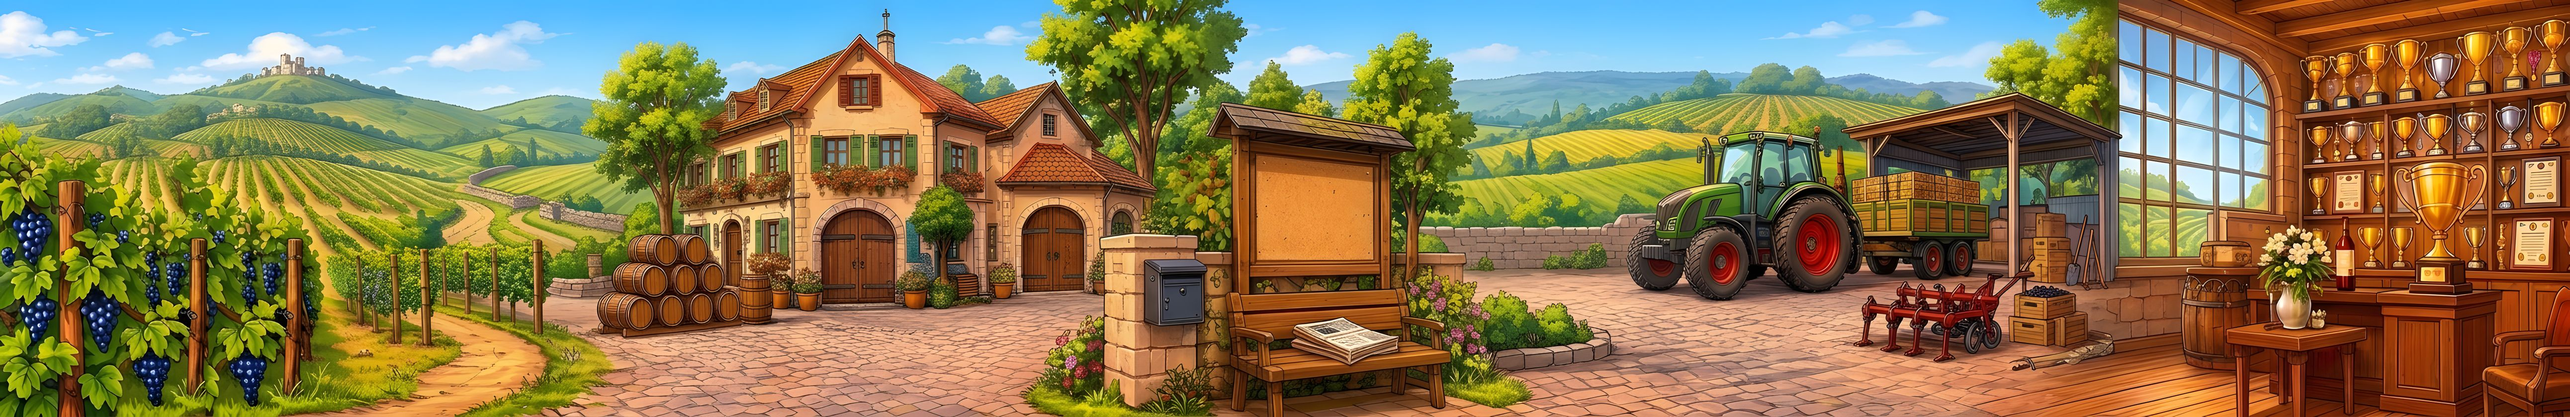
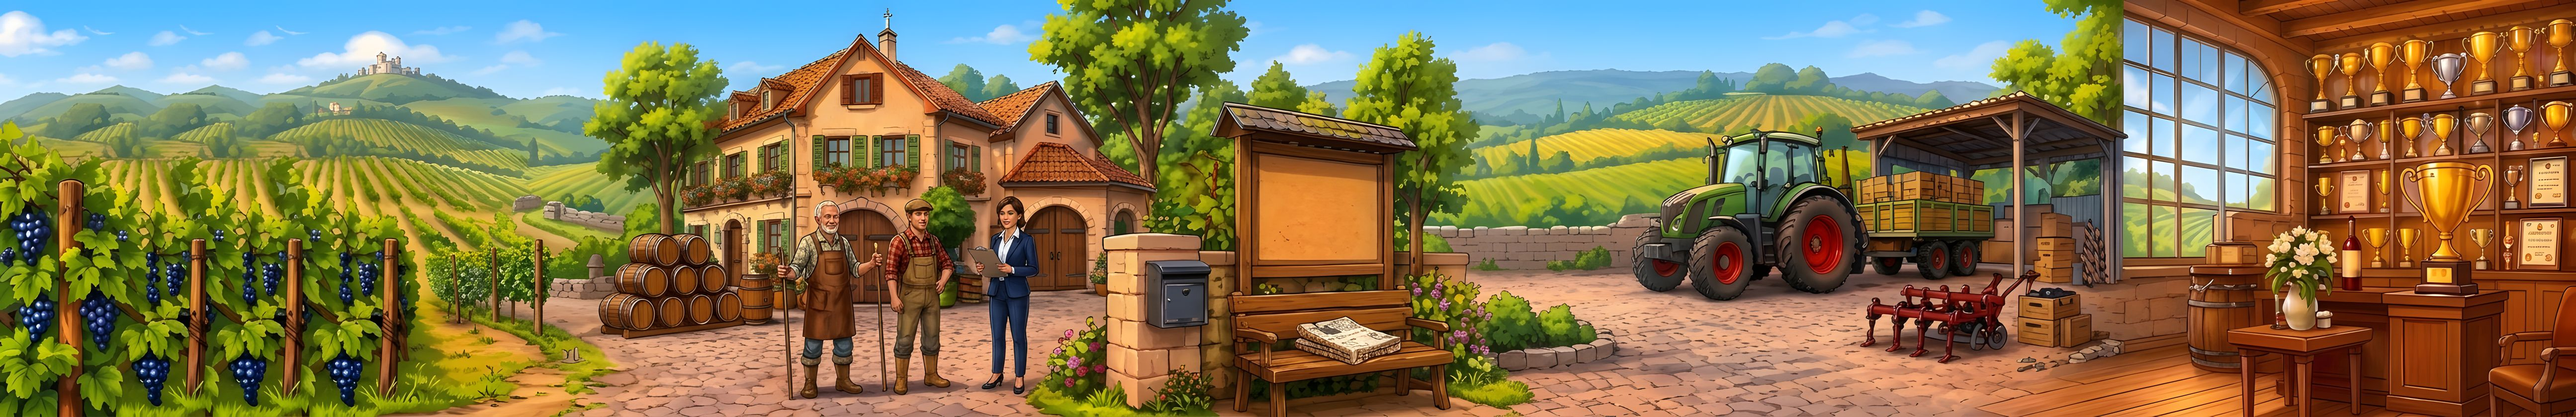
7.5: Weingut-Streifen mit drei Leuten vor dem Haus, Version 7.5, Zwischenspeicher oechsle-18

diff --git a/index.html b/index.html
@@ -165,7 +165,7 @@ ul.kl{margin:4px 0 0;padding-left:18px;font-size:14px}
 .pano.klein{height:96px}.pano.klein .ptitel b{font-size:15px}
 .pano>i{position:absolute;inset:0;background-repeat:no-repeat;background-size:auto 100%;background-position:0 50%}
 .pano>i.gleit{transition:background-position .7s ease,background-size .7s ease}
-.pano.gut{--r:6.154}.pano.gut>i{background-image:url(bilder/gut.jpg)}
+.pano.gut{--r:6.168}.pano.gut>i{background-image:url(bilder/gut.jpg)}
 .pano.keller{--r:4.931}.pano.keller>i{background-image:url(bilder/keller.jpg)}
 .pano.stadt{--r:6.115}.pano.stadt>i{background-image:url(bilder/stadt.jpg)}
 .ptitel{position:absolute;left:0;right:0;bottom:0;padding:28px 12px 8px;background:linear-gradient(transparent,rgba(0,0,0,.66));color:#fff;text-align:center;pointer-events:none}
@@ -465,7 +465,7 @@ const HA_REBEN=1000, FASS_PREIS=1.2, FLASCHE_PREIS=.35, DUENGER_HA=250, BODEN_MO
 // Frost kommt obendrauf: zwei Frostmonate im Winter (Januar, Februar, Dezember) FROST_2 Punkte, drei FROST_3, Spätfrost zur Blüte SPAETFROST.
 // Der Rebenpreis schwankt von Januar bis März um REBEN_SCHWANK. STEUER gilt für dich und die Gegner, GEGNER_ABNUTZ ist ihr Nachpflanzen je Hektar und Jahr.
 const VERLUST=[[70,2,4],[50,4,7],[35,7,11],[0,12,18]], FROST_2=2, FROST_3=4, SPAETFROST=2, REBEN_SCHWANK=.3, STEUER=.2, GEGNER_ABNUTZ=150;
-const VERSION='7.4';
+const VERSION='7.5';
 const KEYS=['rebenreich-1','rebenreich-2','rebenreich-3'], SLOT_KEY='rebenreich-slot', TON_KEY='rebenreich-ton';
 const HELFER_LEISTUNG=1000, MASCH_LEISTUNG=3000, MASCH_PREIS=28000, WARTUNG=100, LOHN_MIN=200, LOHN_MAX=500, LOHN_START=350, VERMITTLUNG=300, ZINS=.06, SEKT_KOSTEN=.8;
 // Leute-Regel: Je REBEN_JE_HELFER angebaute Reben braucht es das ganze Jahr einen Erntehelfer, eine Erntemaschine zählt wie MASCH_HELFER Helfer.

diff --git a/sw.js b/sw.js
@@ -1,7 +1,7 @@
 // Helfer für die App: legt alle Dateien des Spiels aufs Gerät, damit es ohne Netz läuft.
 // Die Spielseite (index.html) und das Buch (anleitung.js) kommen immer zuerst frisch aus dem Netz, so kommen neue Fassungen von selbst an. Ohne Netz gilt die gespeicherte.
 // Bilder und Töne kommen aus dem Speicher. Ändert sich eines davon, die Nummer in LAGER erhöhen, dann lädt das Gerät alles neu.
-const LAGER = 'oechsle-17';
+const LAGER = 'oechsle-18';
 const DATEIEN = [
   './', 'index.html', 'manifest.webmanifest', 'anleitung.js',
   'bilder/amt.jpg',
